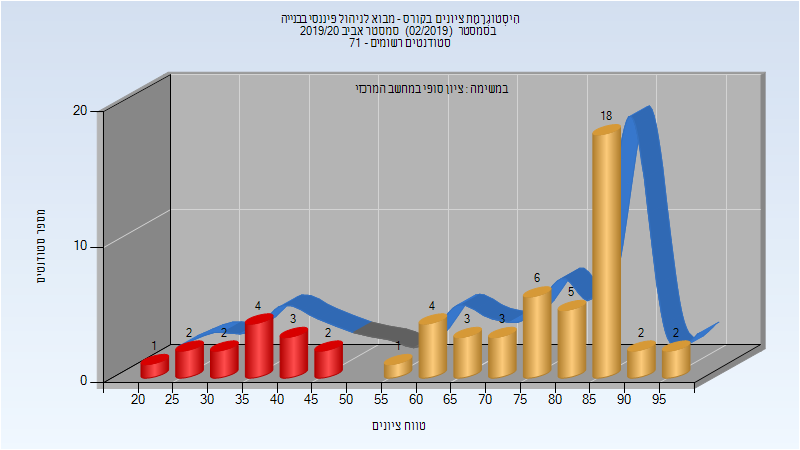
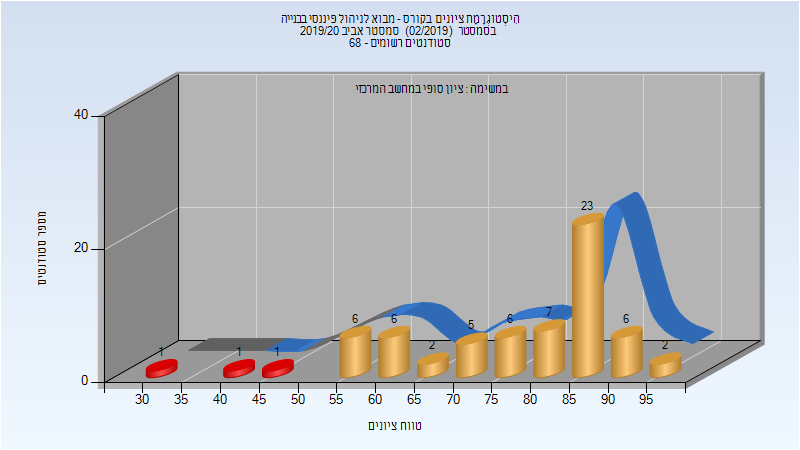
Deploy michael-maltsev/technion-histograms to github.com/michael-maltsev/technion-histograms.git:gh-pages

diff --git a/014005/index.html b/014005/index.html
@@ -536,11 +536,11 @@
 <td>מרצה - אחראי מקצוע</td>
 </tr>
 <tr>
-<td>שביט שרית</td>
+<td>צאצאשוילי תמי</td>
 <td>סגל מנהלי - עם הרשאות מרצה אחראי</td>
 </tr>
 <tr>
-<td>צאצאשוילי תמי</td>
+<td>שביט שרית</td>
 <td>סגל מנהלי - עם הרשאות מרצה אחראי</td>
 </tr>
 </tbody>

diff --git a/014143/index.html b/014143/index.html
@@ -322,11 +322,11 @@
 <td>מרצה - אחראי מקצוע</td>
 </tr>
 <tr>
-<td>שביט שרית</td>
+<td>צאצאשוילי תמי</td>
 <td>סגל מנהלי - עם הרשאות מרצה אחראי</td>
 </tr>
 <tr>
-<td>צאצאשוילי תמי</td>
+<td>שביט שרית</td>
 <td>סגל מנהלי - עם הרשאות מרצה אחראי</td>
 </tr>
 </tbody>

diff --git a/014211/index.html b/014211/index.html
@@ -415,11 +415,11 @@
 <td>מרצה - אחראי מקצוע</td>
 </tr>
 <tr>
-<td>קובלר קרן</td>
+<td>סגל רחלי</td>
 <td>סגל מנהלי - עם הרשאות מרצה אחראי</td>
 </tr>
 <tr>
-<td>סגל רחלי</td>
+<td>קובלר קרן</td>
 <td>סגל מנהלי - עם הרשאות מרצה אחראי</td>
 </tr>
 </tbody>

diff --git a/014615/index.html b/014615/index.html
@@ -407,13 +407,13 @@
 </thead>
 <tbody>
 <tr>
-<td>58</td>
-<td>44/14</td>
-<td>76</td>
-<td>24</td>
+<td>66</td>
+<td>63/3</td>
+<td>95</td>
+<td>31</td>
 <td>98</td>
-<td>69.534</td>
-<td>76</td>
+<td>77.045</td>
+<td>80</td>
 </tr>
 </tbody>
 </table>

diff --git a/014005/README.md b/014005/README.md
@@ -167,8 +167,8 @@
 | איש סגל | תפקיד |
 | ---- | ---- |
 | ז'וטובסקי סמיון | מרצה - אחראי מקצוע |
-| שביט שרית | סגל מנהלי - עם הרשאות מרצה אחראי |
 | צאצאשוילי תמי | סגל מנהלי - עם הרשאות מרצה אחראי |
+| שביט שרית | סגל מנהלי - עם הרשאות מרצה אחראי |
 
 ### סופי מועד א'
 

diff --git a/014143/README.md b/014143/README.md
@@ -97,8 +97,8 @@
 | איש סגל | תפקיד |
 | ---- | ---- |
 | מדאח חאזם | מרצה - אחראי מקצוע |
-| שביט שרית | סגל מנהלי - עם הרשאות מרצה אחראי |
 | צאצאשוילי תמי | סגל מנהלי - עם הרשאות מרצה אחראי |
+| שביט שרית | סגל מנהלי - עם הרשאות מרצה אחראי |
 
 ### סופי מועד א'
 

diff --git a/014211/README.md b/014211/README.md
@@ -127,8 +127,8 @@
 | איש סגל | תפקיד |
 | ---- | ---- |
 | רמון גיא | מרצה - אחראי מקצוע |
-| קובלר קרן | סגל מנהלי - עם הרשאות מרצה אחראי |
 | סגל רחלי | סגל מנהלי - עם הרשאות מרצה אחראי |
+| קובלר קרן | סגל מנהלי - עם הרשאות מרצה אחראי |
 
 ### סופי מועד ב'
 

diff --git a/014615/README.md b/014615/README.md
@@ -124,5 +124,5 @@
 
 | סטודנטים | עברו/נכשלו | אחוז עוברים | ציון מינימלי | ציון מקסימלי | ממוצע | חציון |
 | ---- | ---- | ---- | ---- | ---- | ---- | ---- |
-| 58 | 44/14 | 76 | 24 | 98 | 69.534 | 76 |
+| 66 | 63/3 | 95 | 31 | 98 | 77.045 | 80 |
 
